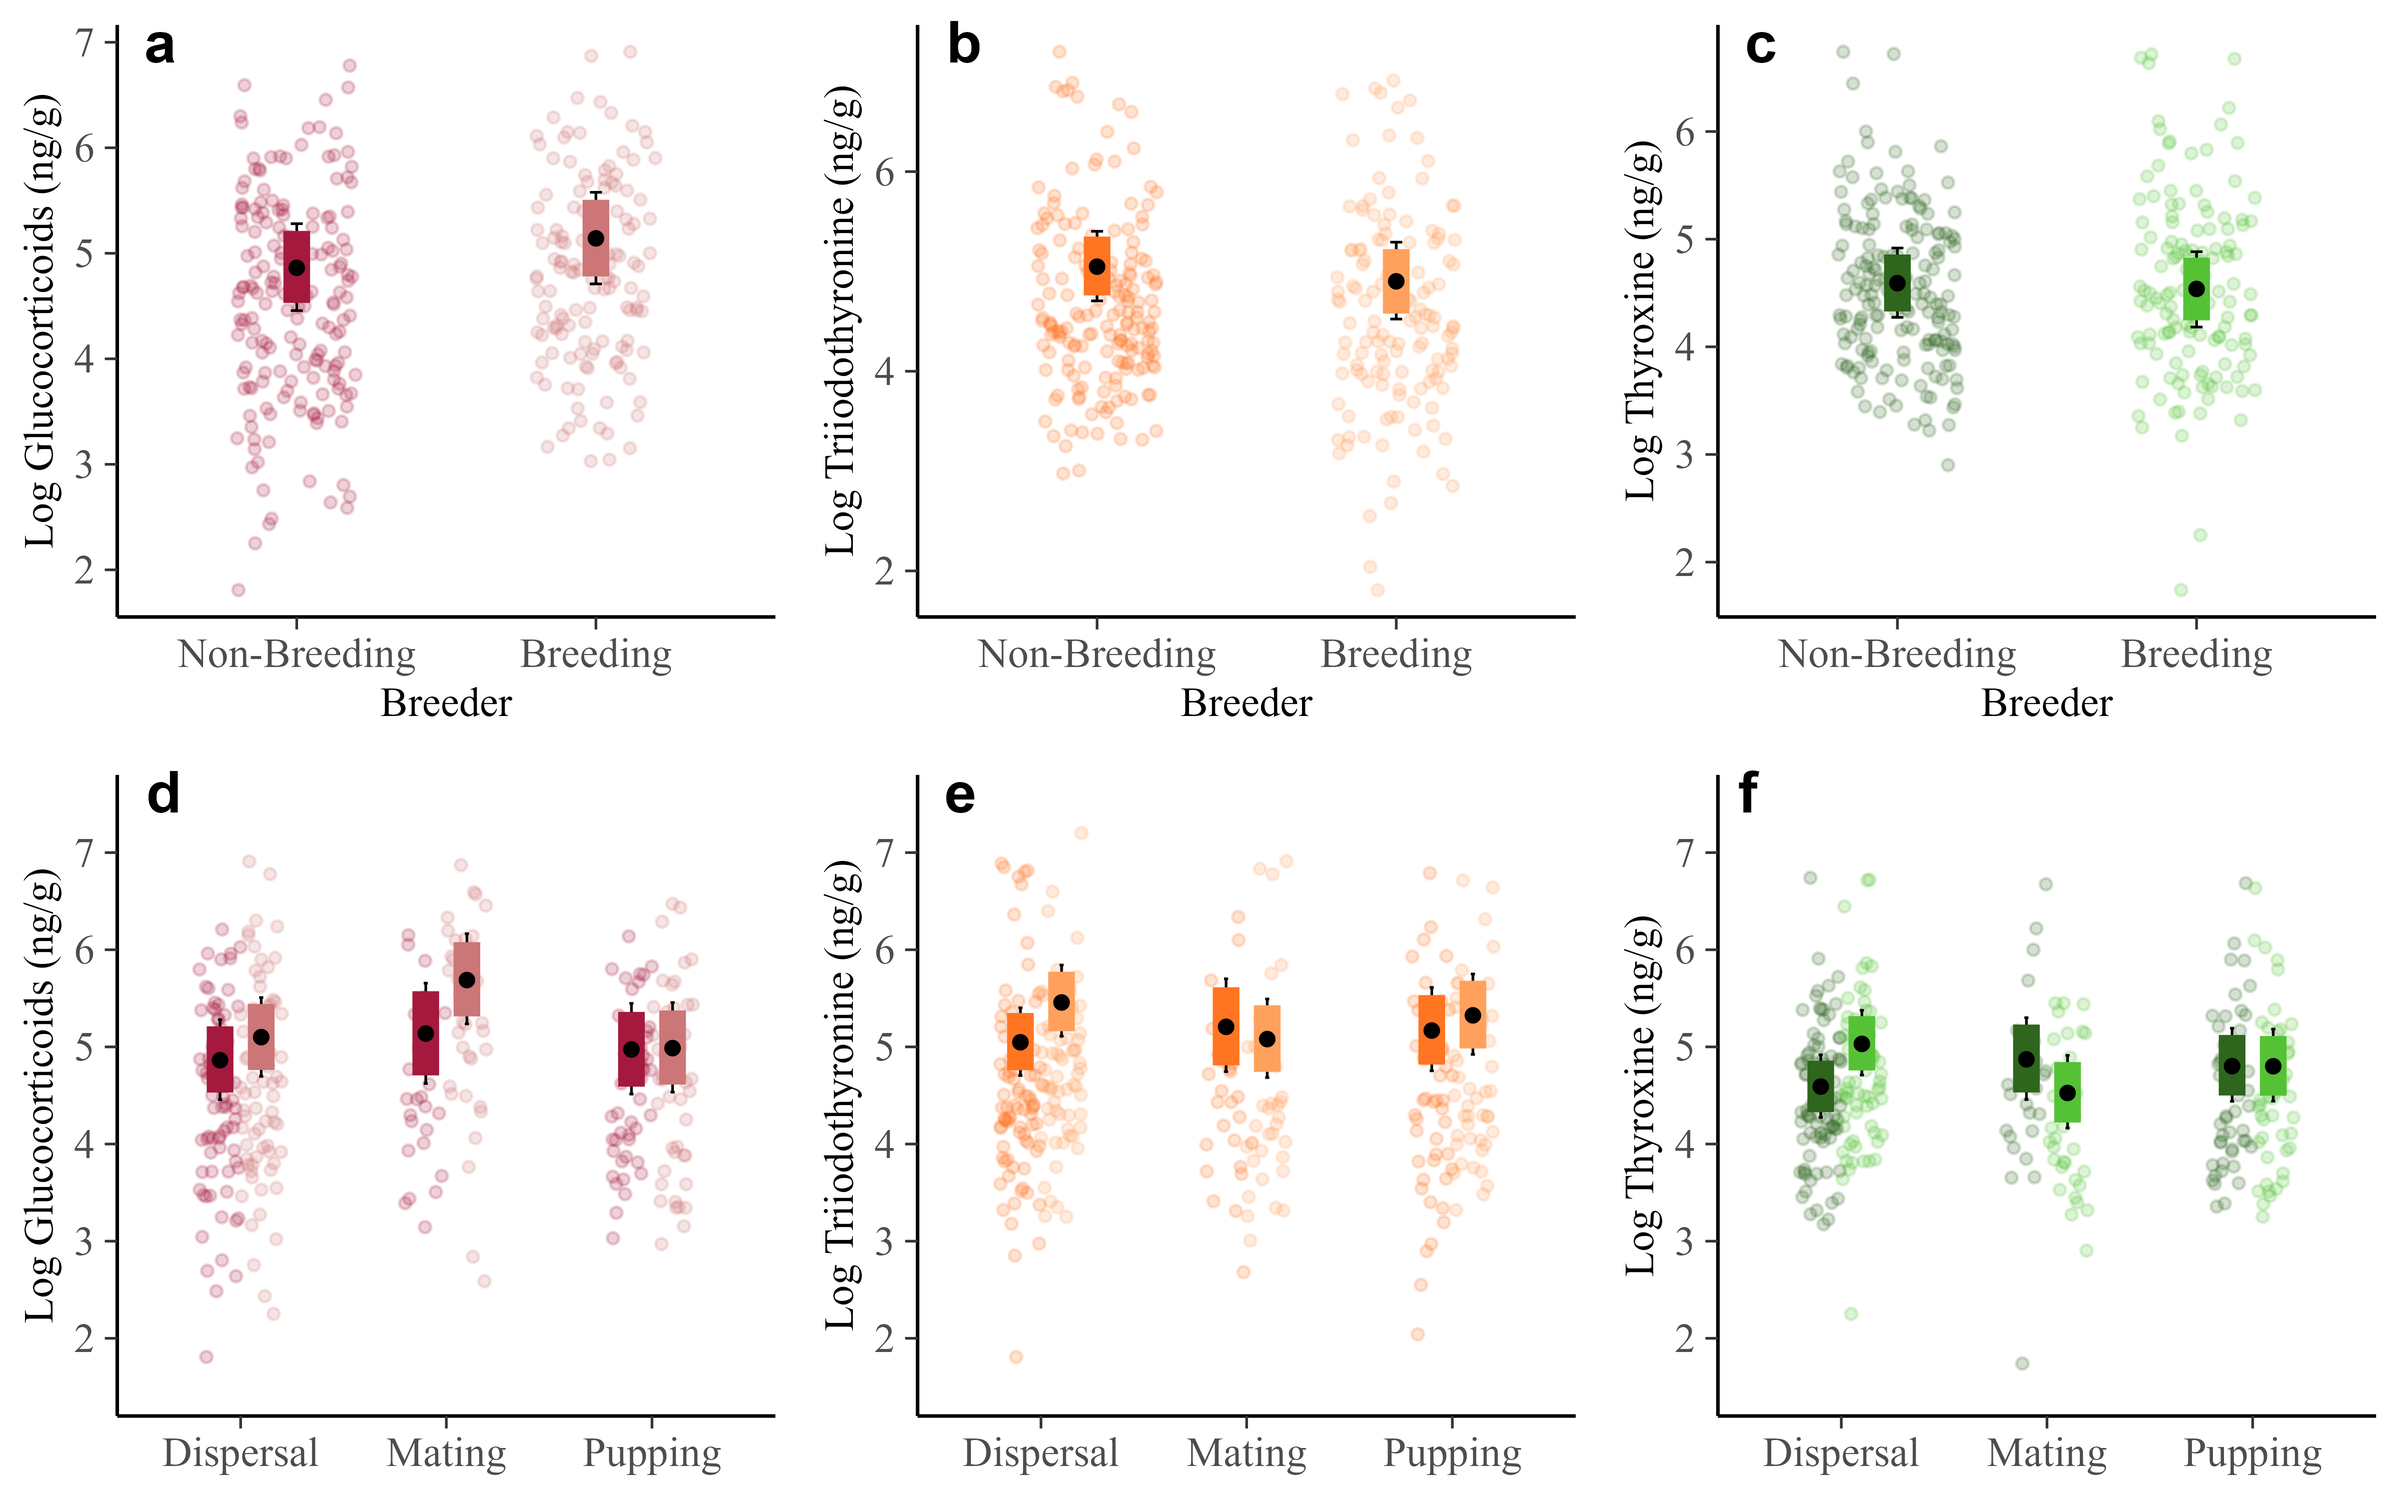
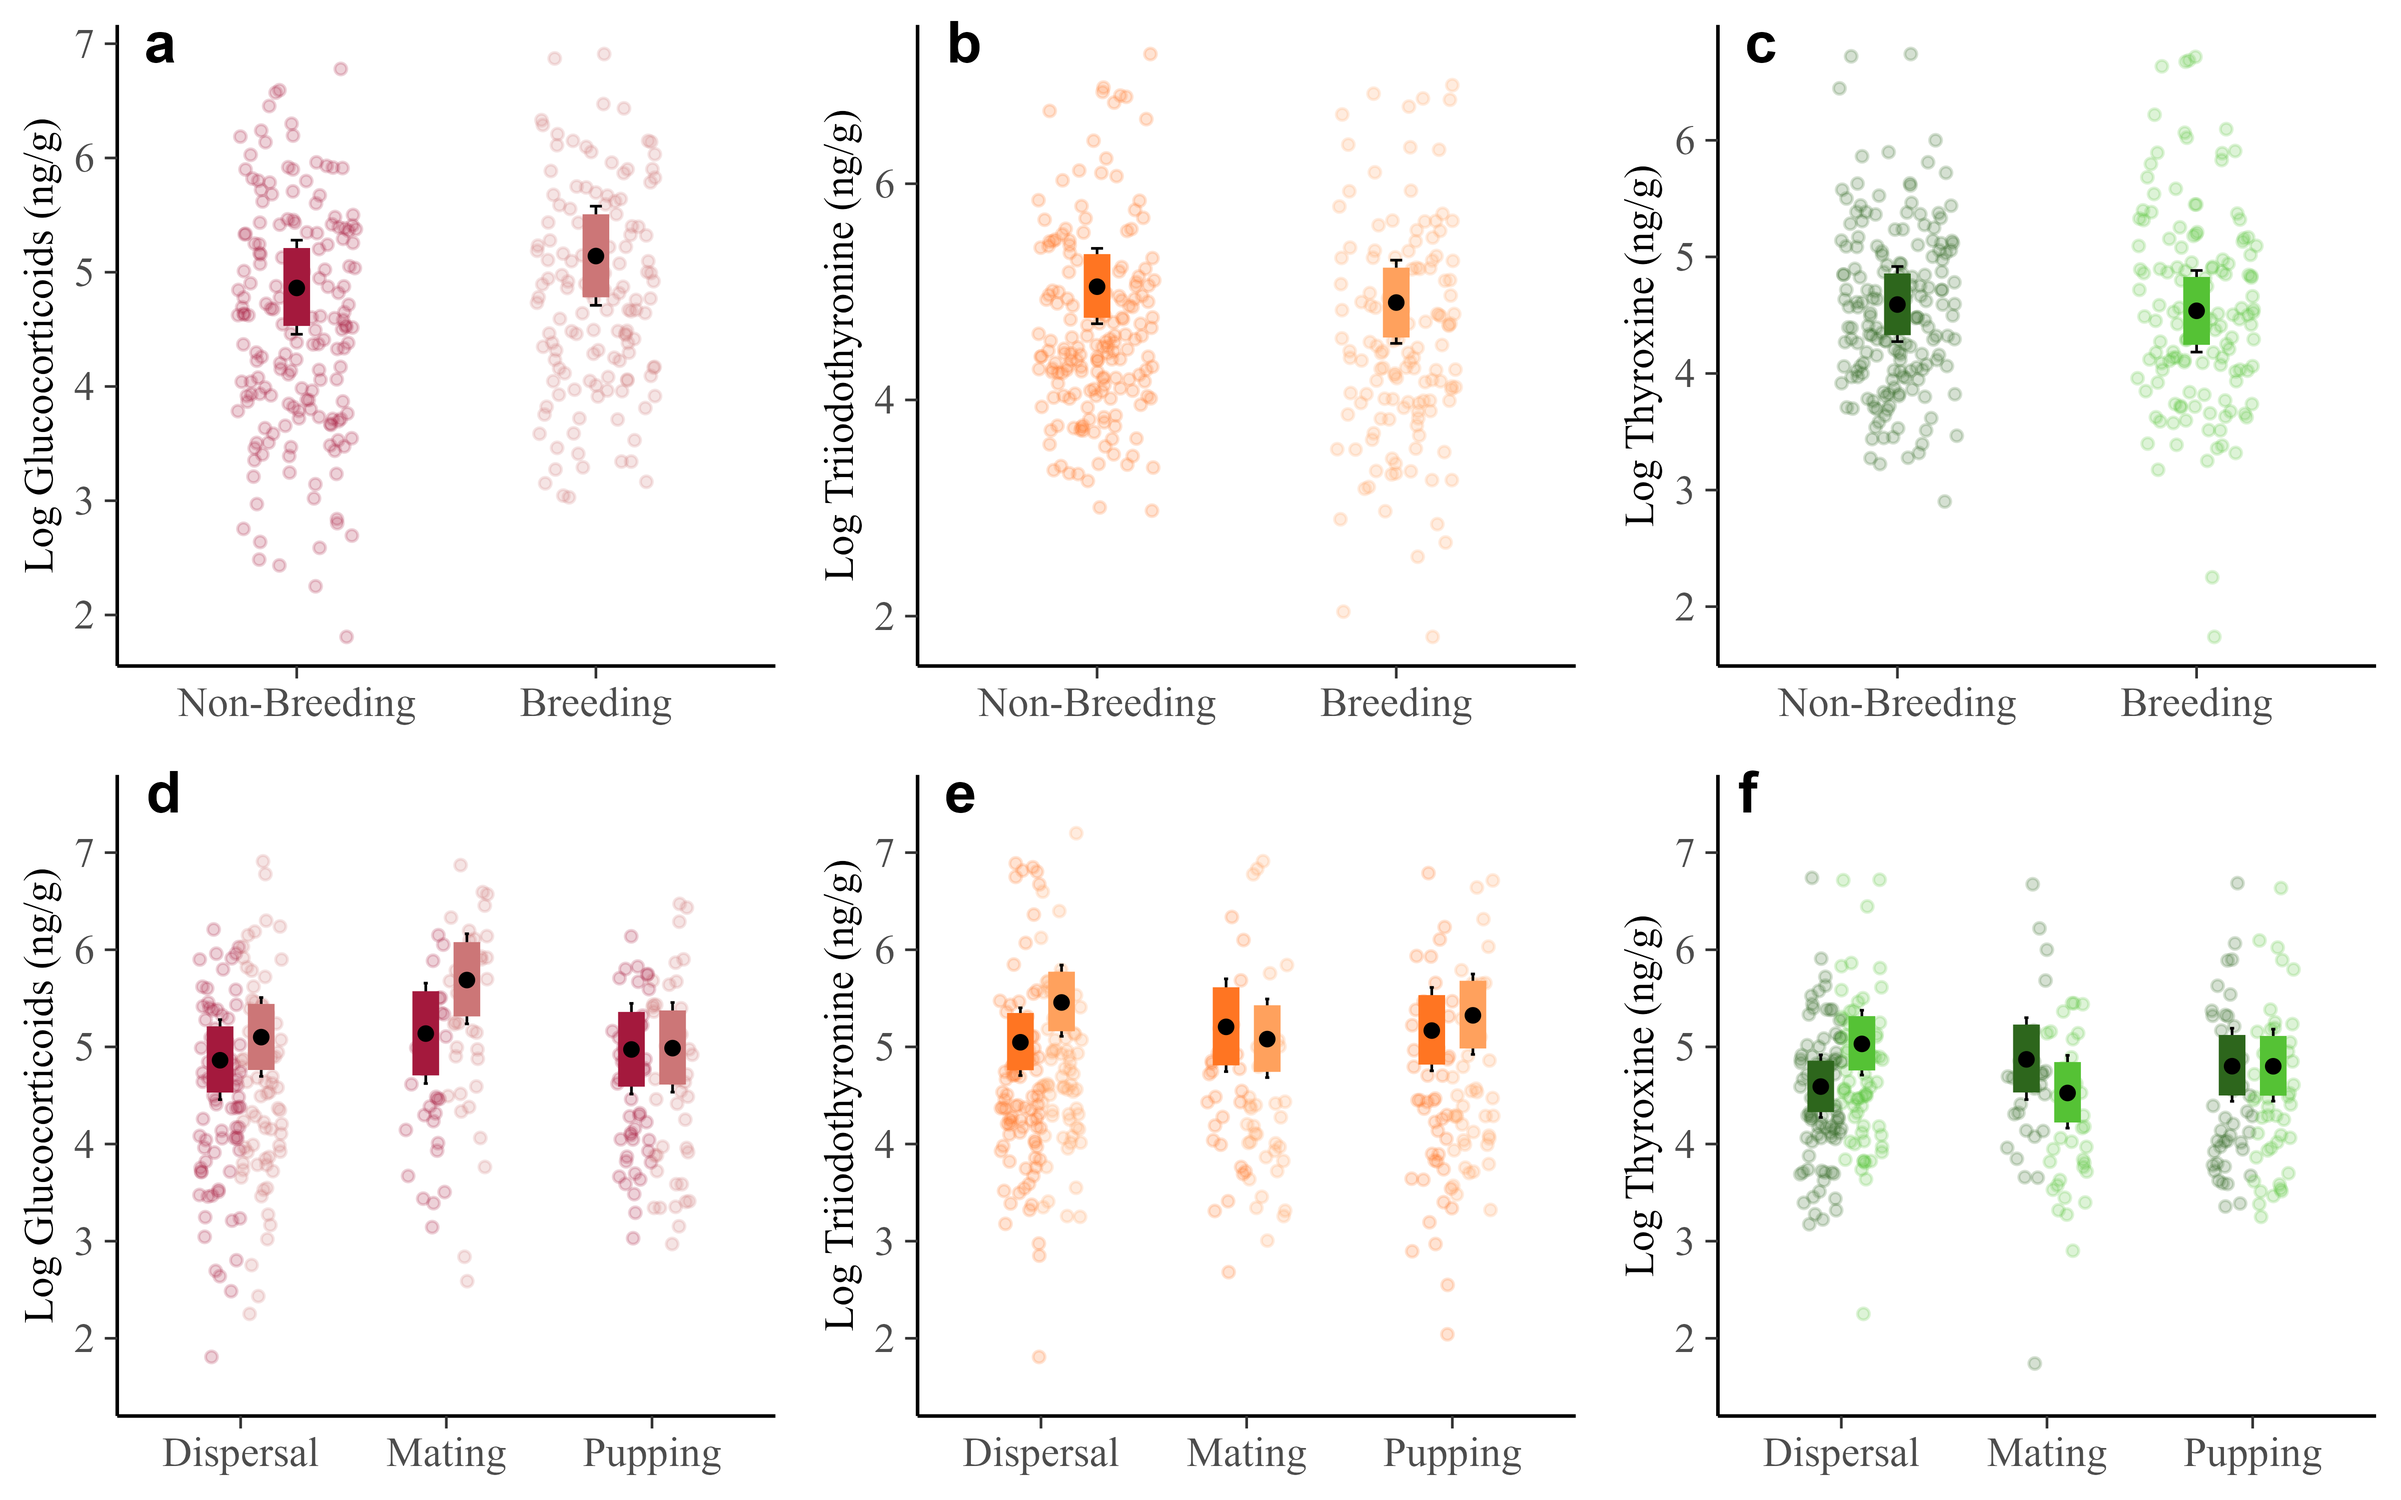
remove "Breeder" axis title from categorical plot

diff --git a/README.md b/README.md
@@ -11,7 +11,7 @@ In the `Data` folder, you will find a number of data files required for the anal
 `Hormone_Data.csv`: hormone metabolite concentration data.
 
 | Column | Description |
-|------------------------------------|------------------------------------|
+|----|----|
 | Code | Unique identifier used by endocrine lab |
 | Collector | Initials of person who collected the sample in the field |
 | Number | Field ID sample number |
@@ -24,7 +24,7 @@ In the `Data` folder, you will find a number of data files required for the anal
 `All_Metadata.csv`: sample metadata and species identification.
 
 | Column | Description |
-|------------------------------------|------------------------------------|
+|----|----|
 | SampleID | Unique identifier for DNA sample |
 | Replicate | Indicates whether the sample was a replicate extraction or not |
 | FieldID | Unique identifier for the sample when collected in the field |
@@ -50,7 +50,7 @@ In the `Data` folder, you will find a number of data files required for the anal
 `Family_Data.csv`: sex and breeding status information.
 
 | Column | Description |
-|------------------------------------|------------------------------------|
+|----|----|
 | Individual | Label for individual coyote sample is assigned to |
 | Sex | Sex of individual |
 | Breeder | Indicates whether or not individual is a breeder or non-breeder |
